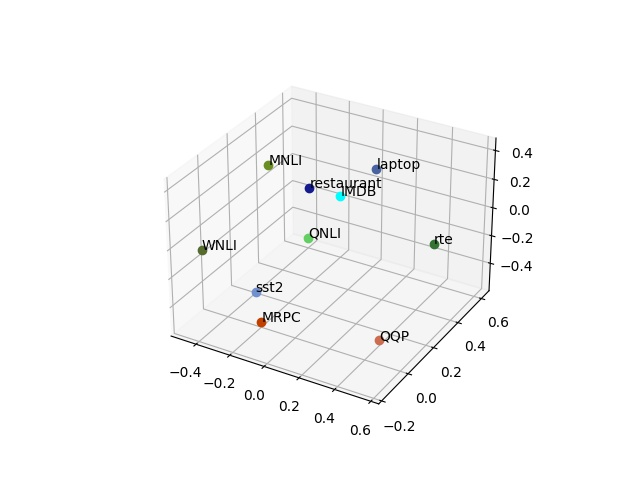
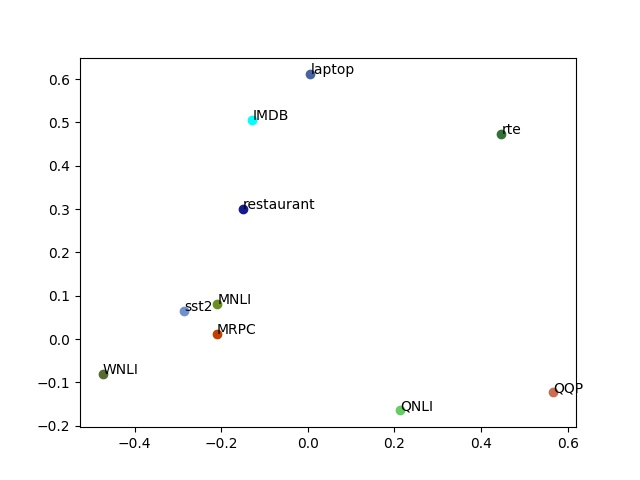
update

diff --git a/draw_cuda_taskprompt_by_acc.py b/draw_cuda_taskprompt_by_acc.py
@@ -259,7 +259,8 @@ print("===================")
 print("===================")
 
 ##3D or 2D
-dim=3
+#dim=3
+dim=2
 #compressed_prompt_emb = train_AE(input=all_prompt_emb,out_features=dim)
 
 

diff --git a/README.md b/README.md
@@ -176,6 +176,11 @@ Task:
 | WNLI | 50.3 | 21.1 | 36.4 | 68.0 | 49.6 | 36.8 | 17.0 | 52.7 | 50.7 | | 43.8 |
 
 
+- Task similiarty (Replace prompt with various task-specific prompts and account acc.)
+![](https://github.com/yushengsu-thu/prompt/blob/main/task_acc_sim.jpg)
+
+
+
 - Bert
 
 |   | IMDB | laptop | MNLI | MRPC | QNLI | QQP | restaurant | RTE | SST2 | STSB | WNLI |
